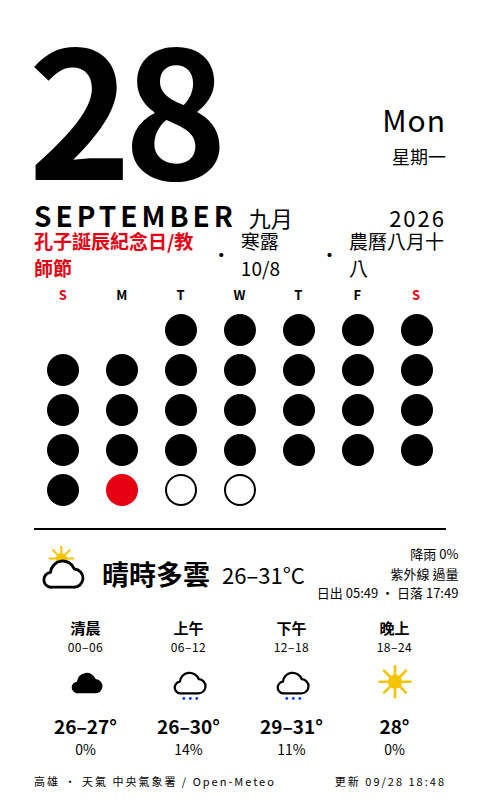
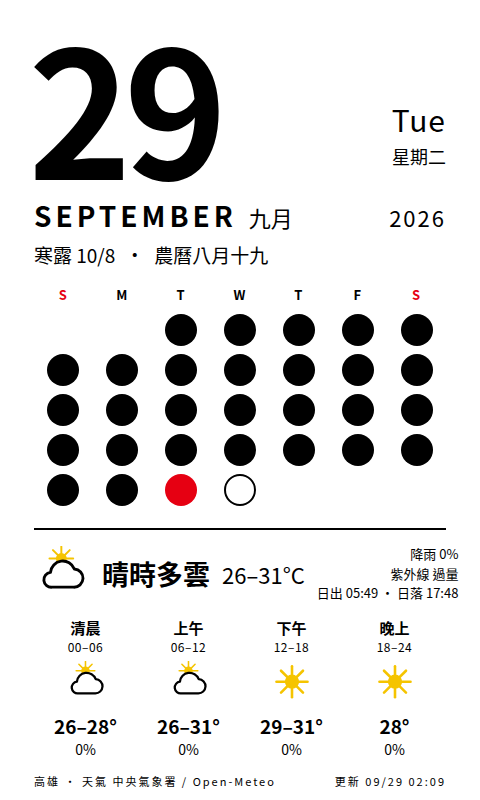
deploy: cf7d1051eb6821bc691ba0ade4beb12cdf9fe0ef

diff --git a/calendar.html b/calendar.html
@@ -47,16 +47,16 @@
 </style></head>
 <body><div class="page">
   <div class="head">
-    <div class="num">28</div>
-    <div class="wd"><div class="en">Mon</div><div class="zh">星期一</div></div>
+    <div class="num">29</div>
+    <div class="wd"><div class="en">Tue</div><div class="zh">星期二</div></div>
   </div>
   <div class="month"><span class="en">SEPTEMBER</span><span class="zh">九月</span><span class="yr">2026</span></div>
-  <div class="today"><span class="hl">孔子誕辰紀念日/教師節</span><span>·</span><span class="lunar">寒露 10/8</span><span>·</span><span class="lunar">農曆八月十八</span></div>
-  <div class="grid"><div class="h we">S</div><div class="h">M</div><div class="h">T</div><div class="h">W</div><div class="h">T</div><div class="h">F</div><div class="h we">S</div><div class="dot empty"></div><div class="dot empty"></div><div class="dot past" title="1"></div><div class="dot past" title="2"></div><div class="dot past" title="3"></div><div class="dot past" title="4"></div><div class="dot past" title="5"></div><div class="dot past" title="6"></div><div class="dot past" title="7"></div><div class="dot past" title="8"></div><div class="dot past" title="9"></div><div class="dot past" title="10"></div><div class="dot past" title="11"></div><div class="dot past" title="12"></div><div class="dot past" title="13"></div><div class="dot past" title="14"></div><div class="dot past" title="15"></div><div class="dot past" title="16"></div><div class="dot past" title="17"></div><div class="dot past" title="18"></div><div class="dot past" title="19"></div><div class="dot past" title="20"></div><div class="dot past" title="21"></div><div class="dot past" title="22"></div><div class="dot past" title="23"></div><div class="dot past" title="24"></div><div class="dot past" title="25"></div><div class="dot past" title="26"></div><div class="dot past" title="27"></div><div class="dot now" title="28"></div><div class="dot future" title="29"></div><div class="dot future" title="30"></div></div>
+  <div class="today"><span class="lunar">寒露 10/8</span><span>·</span><span class="lunar">農曆八月十九</span></div>
+  <div class="grid"><div class="h we">S</div><div class="h">M</div><div class="h">T</div><div class="h">W</div><div class="h">T</div><div class="h">F</div><div class="h we">S</div><div class="dot empty"></div><div class="dot empty"></div><div class="dot past" title="1"></div><div class="dot past" title="2"></div><div class="dot past" title="3"></div><div class="dot past" title="4"></div><div class="dot past" title="5"></div><div class="dot past" title="6"></div><div class="dot past" title="7"></div><div class="dot past" title="8"></div><div class="dot past" title="9"></div><div class="dot past" title="10"></div><div class="dot past" title="11"></div><div class="dot past" title="12"></div><div class="dot past" title="13"></div><div class="dot past" title="14"></div><div class="dot past" title="15"></div><div class="dot past" title="16"></div><div class="dot past" title="17"></div><div class="dot past" title="18"></div><div class="dot past" title="19"></div><div class="dot past" title="20"></div><div class="dot past" title="21"></div><div class="dot past" title="22"></div><div class="dot past" title="23"></div><div class="dot past" title="24"></div><div class="dot past" title="25"></div><div class="dot past" title="26"></div><div class="dot past" title="27"></div><div class="dot past" title="28"></div><div class="dot now" title="29"></div><div class="dot future" title="30"></div></div>
   <div class="wx"><div class="line">
     <div class="wxhead"><svg viewBox="0 0 64 68" xmlns="http://www.w3.org/2000/svg"><g transform="translate(12 -4) scale(.6)"><circle cx="32" cy="32" r="11" fill="#f5c400"/><g stroke="#f5c400" stroke-width="4" stroke-linecap="round"><line x1="32" y1="32" x2="32" y2="8" transform="rotate(0 32 32)"/><line x1="32" y1="32" x2="32" y2="8" transform="rotate(45 32 32)"/><line x1="32" y1="32" x2="32" y2="8" transform="rotate(90 32 32)"/><line x1="32" y1="32" x2="32" y2="8" transform="rotate(135 32 32)"/><line x1="32" y1="32" x2="32" y2="8" transform="rotate(180 32 32)"/><line x1="32" y1="32" x2="32" y2="8" transform="rotate(225 32 32)"/><line x1="32" y1="32" x2="32" y2="8" transform="rotate(270 32 32)"/><line x1="32" y1="32" x2="32" y2="8" transform="rotate(315 32 32)"/></g></g><path d="M20 50h26a11 11 0 0 0 1-22 15 15 0 0 0-29 4 9 9 0 0 0 2 18z" fill="#fff" stroke="#000" stroke-width="3.5" stroke-linejoin="round"/></svg><span class="desc">晴時多雲</span><span class="temp">26–31°C</span>
-      <div class="meta">降雨 0%<br>紫外線 過量<br>日出 05:49 · 日落 17:49</div></div>
-    <div class="slots"><div class="slot"><div class="n">清晨</div><div class="hrs">00–06</div><svg viewBox="0 0 64 68" xmlns="http://www.w3.org/2000/svg"><path d="M20 50h26a11 11 0 0 0 1-22 15 15 0 0 0-29 4 9 9 0 0 0 2 18z" fill="#000"/></svg><div class="t">26–27°</div><div class="p dry">0%</div></div><div class="slot"><div class="n">上午</div><div class="hrs">06–12</div><svg viewBox="0 0 64 68" xmlns="http://www.w3.org/2000/svg"><path d="M20 50h26a11 11 0 0 0 1-22 15 15 0 0 0-29 4 9 9 0 0 0 2 18z" fill="#fff" stroke="#000" stroke-width="3.5" stroke-linejoin="round"/><g fill="#0040ff"><circle cx="24" cy="58" r="2.2"/><circle cx="34" cy="58" r="2.2"/><circle cx="44" cy="58" r="2.2"/></g></svg><div class="t">26–30°</div><div class="p dry">14%</div></div><div class="slot"><div class="n">下午</div><div class="hrs">12–18</div><svg viewBox="0 0 64 68" xmlns="http://www.w3.org/2000/svg"><path d="M20 50h26a11 11 0 0 0 1-22 15 15 0 0 0-29 4 9 9 0 0 0 2 18z" fill="#fff" stroke="#000" stroke-width="3.5" stroke-linejoin="round"/><g fill="#0040ff"><circle cx="24" cy="58" r="2.2"/><circle cx="34" cy="58" r="2.2"/><circle cx="44" cy="58" r="2.2"/></g></svg><div class="t">29–31°</div><div class="p dry">11%</div></div><div class="slot"><div class="n">晚上</div><div class="hrs">18–24</div><svg viewBox="0 0 64 68" xmlns="http://www.w3.org/2000/svg"><circle cx="32" cy="32" r="11" fill="#f5c400"/><g stroke="#f5c400" stroke-width="4" stroke-linecap="round"><line x1="32" y1="32" x2="32" y2="8" transform="rotate(0 32 32)"/><line x1="32" y1="32" x2="32" y2="8" transform="rotate(45 32 32)"/><line x1="32" y1="32" x2="32" y2="8" transform="rotate(90 32 32)"/><line x1="32" y1="32" x2="32" y2="8" transform="rotate(135 32 32)"/><line x1="32" y1="32" x2="32" y2="8" transform="rotate(180 32 32)"/><line x1="32" y1="32" x2="32" y2="8" transform="rotate(225 32 32)"/><line x1="32" y1="32" x2="32" y2="8" transform="rotate(270 32 32)"/><line x1="32" y1="32" x2="32" y2="8" transform="rotate(315 32 32)"/></g></svg><div class="t">28°</div><div class="p dry">0%</div></div></div>
+      <div class="meta">降雨 0%<br>紫外線 過量<br>日出 05:49 · 日落 17:48</div></div>
+    <div class="slots"><div class="slot"><div class="n">清晨</div><div class="hrs">00–06</div><svg viewBox="0 0 64 68" xmlns="http://www.w3.org/2000/svg"><g transform="translate(12 -4) scale(.6)"><circle cx="32" cy="32" r="11" fill="#f5c400"/><g stroke="#f5c400" stroke-width="4" stroke-linecap="round"><line x1="32" y1="32" x2="32" y2="8" transform="rotate(0 32 32)"/><line x1="32" y1="32" x2="32" y2="8" transform="rotate(45 32 32)"/><line x1="32" y1="32" x2="32" y2="8" transform="rotate(90 32 32)"/><line x1="32" y1="32" x2="32" y2="8" transform="rotate(135 32 32)"/><line x1="32" y1="32" x2="32" y2="8" transform="rotate(180 32 32)"/><line x1="32" y1="32" x2="32" y2="8" transform="rotate(225 32 32)"/><line x1="32" y1="32" x2="32" y2="8" transform="rotate(270 32 32)"/><line x1="32" y1="32" x2="32" y2="8" transform="rotate(315 32 32)"/></g></g><path d="M20 50h26a11 11 0 0 0 1-22 15 15 0 0 0-29 4 9 9 0 0 0 2 18z" fill="#fff" stroke="#000" stroke-width="3.5" stroke-linejoin="round"/></svg><div class="t">26–28°</div><div class="p dry">0%</div></div><div class="slot"><div class="n">上午</div><div class="hrs">06–12</div><svg viewBox="0 0 64 68" xmlns="http://www.w3.org/2000/svg"><g transform="translate(12 -4) scale(.6)"><circle cx="32" cy="32" r="11" fill="#f5c400"/><g stroke="#f5c400" stroke-width="4" stroke-linecap="round"><line x1="32" y1="32" x2="32" y2="8" transform="rotate(0 32 32)"/><line x1="32" y1="32" x2="32" y2="8" transform="rotate(45 32 32)"/><line x1="32" y1="32" x2="32" y2="8" transform="rotate(90 32 32)"/><line x1="32" y1="32" x2="32" y2="8" transform="rotate(135 32 32)"/><line x1="32" y1="32" x2="32" y2="8" transform="rotate(180 32 32)"/><line x1="32" y1="32" x2="32" y2="8" transform="rotate(225 32 32)"/><line x1="32" y1="32" x2="32" y2="8" transform="rotate(270 32 32)"/><line x1="32" y1="32" x2="32" y2="8" transform="rotate(315 32 32)"/></g></g><path d="M20 50h26a11 11 0 0 0 1-22 15 15 0 0 0-29 4 9 9 0 0 0 2 18z" fill="#fff" stroke="#000" stroke-width="3.5" stroke-linejoin="round"/></svg><div class="t">26–31°</div><div class="p dry">0%</div></div><div class="slot"><div class="n">下午</div><div class="hrs">12–18</div><svg viewBox="0 0 64 68" xmlns="http://www.w3.org/2000/svg"><circle cx="32" cy="32" r="11" fill="#f5c400"/><g stroke="#f5c400" stroke-width="4" stroke-linecap="round"><line x1="32" y1="32" x2="32" y2="8" transform="rotate(0 32 32)"/><line x1="32" y1="32" x2="32" y2="8" transform="rotate(45 32 32)"/><line x1="32" y1="32" x2="32" y2="8" transform="rotate(90 32 32)"/><line x1="32" y1="32" x2="32" y2="8" transform="rotate(135 32 32)"/><line x1="32" y1="32" x2="32" y2="8" transform="rotate(180 32 32)"/><line x1="32" y1="32" x2="32" y2="8" transform="rotate(225 32 32)"/><line x1="32" y1="32" x2="32" y2="8" transform="rotate(270 32 32)"/><line x1="32" y1="32" x2="32" y2="8" transform="rotate(315 32 32)"/></g></svg><div class="t">29–31°</div><div class="p dry">0%</div></div><div class="slot"><div class="n">晚上</div><div class="hrs">18–24</div><svg viewBox="0 0 64 68" xmlns="http://www.w3.org/2000/svg"><circle cx="32" cy="32" r="11" fill="#f5c400"/><g stroke="#f5c400" stroke-width="4" stroke-linecap="round"><line x1="32" y1="32" x2="32" y2="8" transform="rotate(0 32 32)"/><line x1="32" y1="32" x2="32" y2="8" transform="rotate(45 32 32)"/><line x1="32" y1="32" x2="32" y2="8" transform="rotate(90 32 32)"/><line x1="32" y1="32" x2="32" y2="8" transform="rotate(135 32 32)"/><line x1="32" y1="32" x2="32" y2="8" transform="rotate(180 32 32)"/><line x1="32" y1="32" x2="32" y2="8" transform="rotate(225 32 32)"/><line x1="32" y1="32" x2="32" y2="8" transform="rotate(270 32 32)"/><line x1="32" y1="32" x2="32" y2="8" transform="rotate(315 32 32)"/></g></svg><div class="t">28°</div><div class="p dry">0%</div></div></div>
   </div></div>
-  <div class="foot"><span>高雄 · 天氣 中央氣象署 / Open-Meteo</span><span>更新 09/28 18:48</span></div>
+  <div class="foot"><span>高雄 · 天氣 中央氣象署 / Open-Meteo</span><span>更新 09/29 02:09</span></div>
 </div></body></html>
